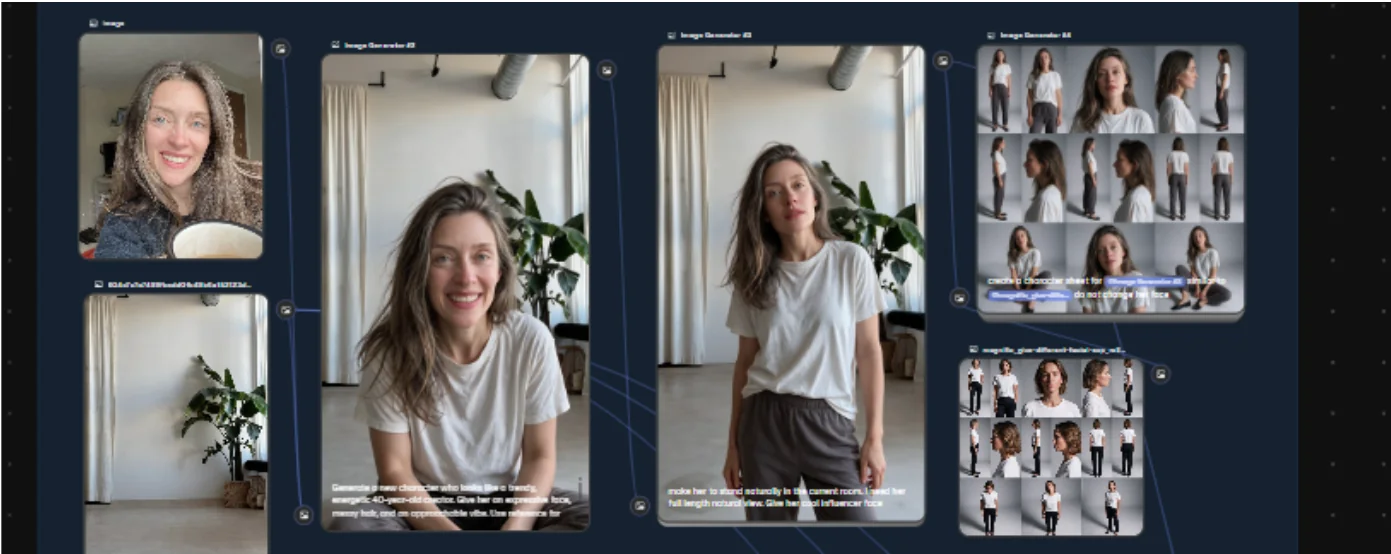
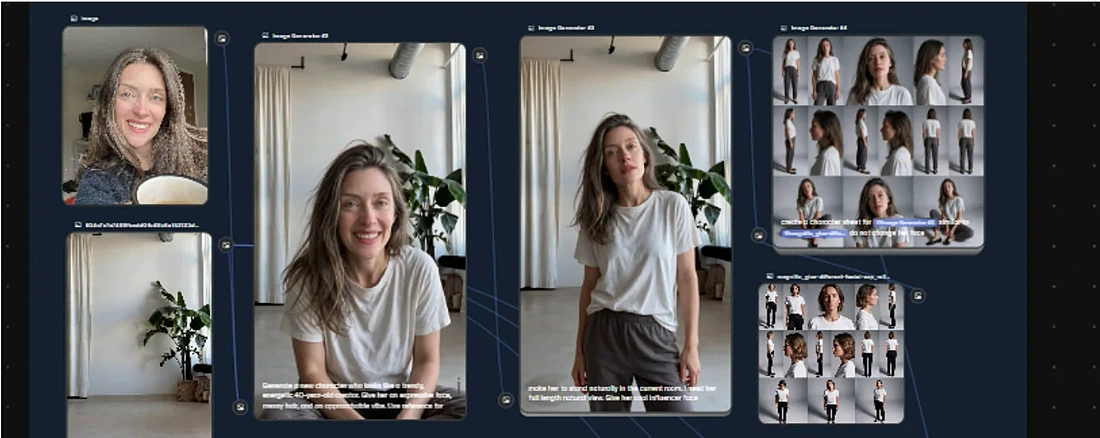
Add Adobe Creative Suite, swap Unmuted workflow images, sharpen UGC graph
- index.html: add Adobe Creative Suite to the tools list.
- unmuted.html: replace the Workflow 2 shot-reference and still-to-video
  figures with the combined workflow graph (voiceover and sound effect
  nodes routed into the film) and a new editing-timeline screenshot.
  Drops the now-unused graph-row layout on this page.
- um-wf-ugc.webp: the source was soft and read as pixelated at full
  width. Downsampled 1391x554 -> 1100x438 with lanczos plus a light
  unsharp pass and capped the figure at 820px so it renders closer to
  its real detail level.

diff --git a/unmuted.html b/unmuted.html
@@ -109,13 +109,8 @@
       <li><h3>Animate each shot</h3><p>Use the video generator for each still. I set the start frame, model and length per shot.</p></li>
       <li><h3>Cut the film</h3><p>I assembled the cut in Video Project Editor, chosen over Video Combiner for finer control of sequence and transitions.</p></li>
     </ol>
-    <div class="graph-row">
-      <figure class="graph"><img src="assets/img/um-wf-shotrefs.webp" alt="Shot photo references: a glowing phone, a rooftop shot and two black-and-white portraits" width="1077" height="431" loading="lazy"><figcaption>Shot references</figcaption></figure>
-      <div class="graph-col">
-        <figure class="graph"><img src="assets/img/um-wf-shot4.webp" alt="A still image and its animated video generator node" width="632" height="431" loading="lazy"><figcaption>Still to video</figcaption></figure>
-      </div>
-    </div>
-    <figure class="graph" style="max-width: 760px"><img src="assets/img/um-wf-editor.webp" alt="Video Project Editor timeline" width="888" height="467" loading="lazy"><figcaption>The final cut</figcaption></figure>
+    <figure class="graph" style="max-width: 847px"><img src="assets/img/um-wf-film.webp" alt="Workflow graph: campaign stills feed video generator nodes alongside a voiceover node and a phone-ring sound effect, all routed into the combined film" width="847" height="627" loading="lazy"><figcaption>Stills, voiceover and sound effects routed into one film</figcaption></figure>
+    <figure class="graph" style="max-width: 900px"><img src="assets/img/um-wf-editor.webp" alt="Editing timeline: the film's clips laid out in sequence above two audio tracks, with the media panel open" width="1351" height="700" loading="lazy"><figcaption>The final cut</figcaption></figure>
     <div class="tip"><p><strong>Tip:</strong> start in low resolution and upscale only when you like the result. Always check a model's reference-image limit before you connect your assets.</p></div>
   </section>
 
@@ -143,7 +138,7 @@
         <p class="case-p">A user-generated-style video with multilingual lip-sync. I generate the base video once, then re-lip-sync it for each language, with no new shoot. Below are the English and French versions. I lock a character reference for recurring talent.</p>
       </div>
     </div>
-    <figure class="graph"><img src="assets/img/um-wf-ugc.webp" alt="Workflow for a UGC-style character video with a reference grid" width="1391" height="554" loading="lazy"><figcaption>UGC workflow</figcaption></figure>
+    <figure class="graph" style="max-width: 820px"><img src="assets/img/um-wf-ugc.webp" alt="Workflow for a UGC-style character video with a reference grid" width="1100" height="438" loading="lazy"><figcaption>UGC workflow</figcaption></figure>
     <div class="vgrid vgrid--3" style="grid-template-columns: repeat(2, minmax(0, 260px)); justify-content: start">
       <figure class="vitem vitem--tall"><video controls preload="none" playsinline poster="assets/img/poster-ugc-english.webp" aria-label="UGC-style video in English"><source src="assets/video/ugc-english.mp4" type="video/mp4"></video><figcaption><strong>English</strong>The base video.</figcaption></figure>
       <figure class="vitem vitem--tall"><video controls preload="none" playsinline poster="assets/img/poster-ugc-french.webp" aria-label="The same UGC-style video, lip-synced in French"><source src="assets/video/ugc-french.mp4" type="video/mp4"></video><figcaption><strong>French</strong>Same video, lip-synced again.</figcaption></figure>

diff --git a/index.html b/index.html
@@ -85,6 +85,7 @@
       <li>Figma</li>
       <li>Remotion</li>
       <li>Maya, ZBrush</li>
+      <li>Adobe Creative Suite</li>
       <li>Webflow</li>
     </ul>
   </section>
